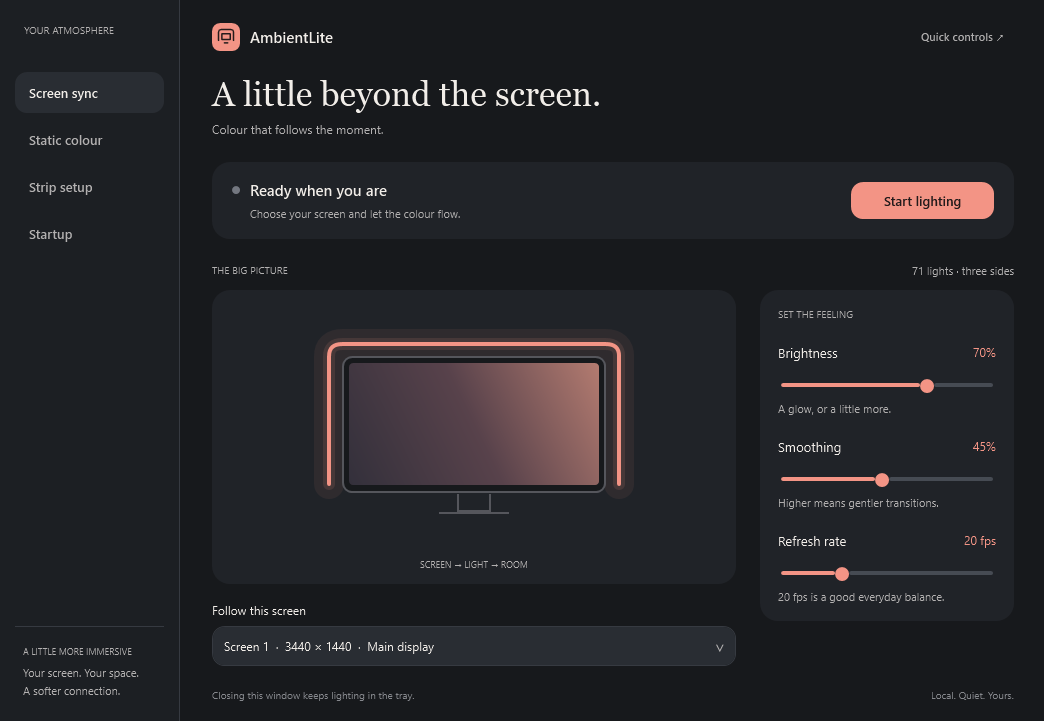
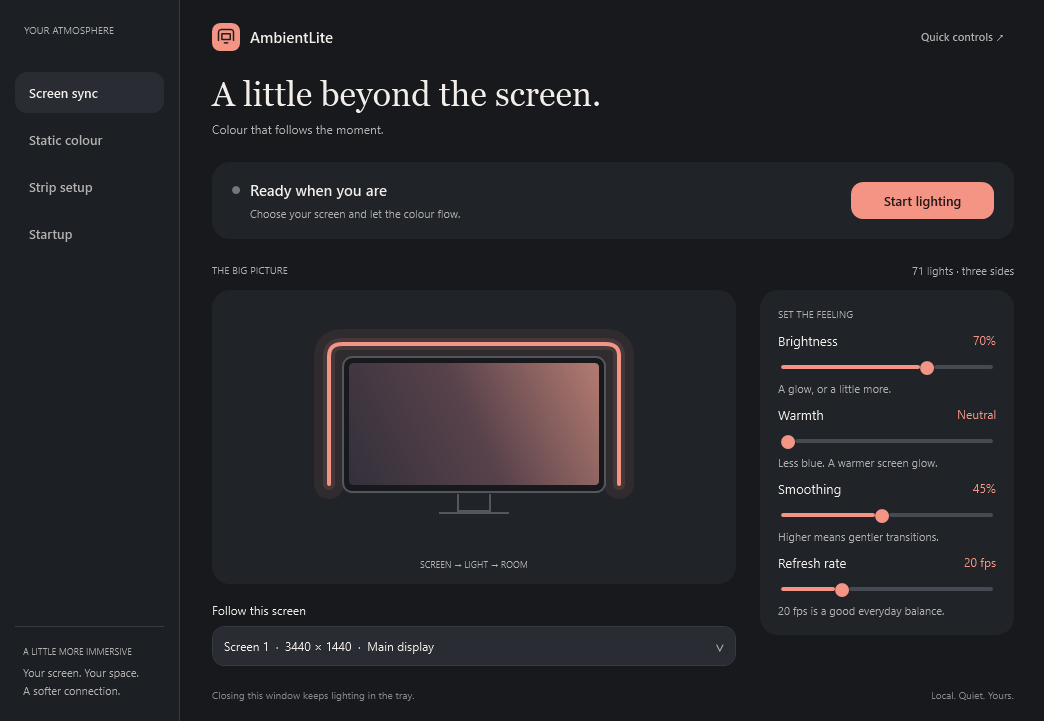
Add screen-sync warmth with compatible companion controls

Changed region(s): [[0.7356, 0.4577, 0.9502, 0.8544]]

diff --git a/AmbientLite.xaml b/AmbientLite.xaml
@@ -245,15 +245,18 @@
     <StackPanel Grid.Column="1">
      <Border Background="#202328" CornerRadius="18" Padding="18,17">
       <StackPanel>
-       <TextBlock Text="SET THE FEELING" FontSize="10" Foreground="#B2B0B0" Margin="0,0,0,24"/>
+       <TextBlock Text="SET THE FEELING" FontSize="10" Foreground="#B2B0B0" Margin="0,0,0,12"/>
        <Grid><TextBlock Text="Brightness" FontSize="13"/><TextBlock x:Name="BrightnessValue" Text="70%" HorizontalAlignment="Right" Foreground="#F39485" FontSize="12"/></Grid>
-       <Slider x:Name="Brightness" Minimum="0" Maximum="100" Value="70" Margin="0,12,0,4"/>
-       <TextBlock Text="A glow, or a little more." FontSize="11" Foreground="#B2B0B0" Margin="0,0,0,22"/>
+       <Slider x:Name="Brightness" Minimum="0" Maximum="100" Value="70" Margin="0,6,0,2"/>
+       <TextBlock Text="A glow, or a little more." FontSize="11" Foreground="#B2B0B0" Margin="0,0,0,10"/>
+       <Grid><TextBlock Text="Warmth" FontSize="13"/><TextBlock x:Name="WarmthValue" Text="Neutral" HorizontalAlignment="Right" Foreground="#F39485" FontSize="12"/></Grid>
+       <Slider x:Name="Warmth" Minimum="0" Maximum="100" Value="0" Margin="0,6,0,2" AutomationProperties.Name="Screen colour warmth"/>
+       <TextBlock Text="Less blue. A warmer screen glow." FontSize="11" Foreground="#B2B0B0" Margin="0,0,0,10"/>
        <Grid><TextBlock Text="Smoothing" FontSize="13"/><TextBlock x:Name="SmoothingValue" Text="45%" HorizontalAlignment="Right" Foreground="#F39485" FontSize="12"/></Grid>
-       <Slider x:Name="Smoothing" Minimum="0" Maximum="95" Value="45" Margin="0,12,0,4"/>
-       <TextBlock Text="Higher means gentler transitions." FontSize="11" Foreground="#B2B0B0" Margin="0,0,0,22"/>
+       <Slider x:Name="Smoothing" Minimum="0" Maximum="95" Value="45" Margin="0,6,0,2"/>
+       <TextBlock Text="Higher means gentler transitions." FontSize="11" Foreground="#B2B0B0" Margin="0,0,0,10"/>
        <Grid><TextBlock Text="Refresh rate" FontSize="13"/><TextBlock x:Name="RateValue" Text="20 fps" HorizontalAlignment="Right" Foreground="#F39485" FontSize="12"/></Grid>
-       <Slider x:Name="Rate" Minimum="5" Maximum="60" Value="20" Margin="0,12,0,4"/>
+       <Slider x:Name="Rate" Minimum="5" Maximum="60" Value="20" Margin="0,6,0,2"/>
        <TextBlock Text="20 fps is a good everyday balance." FontSize="11" Foreground="#B2B0B0" TextWrapping="Wrap"/>
       </StackPanel>
      </Border>

diff --git a/TrayFlyout.xaml b/TrayFlyout.xaml
@@ -33,6 +33,8 @@
     <TextBlock x:Name="QuickColourName" Text="Custom colour" FontSize="11" Foreground="#B2B0B0" Margin="0,7,0,0"/>
    </StackPanel>
    <StackPanel x:Name="QuickScreenSettings" Margin="0,17,0,0">
+    <Grid><TextBlock Text="Warmth" FontSize="12"/><TextBlock x:Name="QuickWarmthText" FontSize="12" Foreground="#F39485" HorizontalAlignment="Right"/></Grid>
+    <Slider x:Name="QuickWarmth" Minimum="0" Maximum="100" Margin="0,9,0,14"/>
     <Grid><TextBlock Text="Smoothing" FontSize="12"/><TextBlock x:Name="QuickSmoothingText" FontSize="12" Foreground="#F39485" HorizontalAlignment="Right"/></Grid>
     <Slider x:Name="QuickSmoothing" Minimum="0" Maximum="95" Margin="0,9,0,14"/>
     <Grid><TextBlock Text="Refresh rate" FontSize="12"/><TextBlock x:Name="QuickRateText" FontSize="12" Foreground="#F39485" HorizontalAlignment="Right"/></Grid>

diff --git a/LightWindow.cs b/LightWindow.cs
@@ -14,10 +14,10 @@ using Forms=System.Windows.Forms;
 using Drawing=System.Drawing;
 
 sealed partial class LightWindow {
- Window window; ComboBox monitor; Slider brightness,smoothing,rate; TextBox topCount,sideCount; CheckBox reverse,compatibilityCapture;
+ Window window; ComboBox monitor; Slider brightness,smoothing,rate,warmth; TextBox topCount,sideCount; CheckBox reverse,compatibilityCapture;
  Button sync,test; Forms.NotifyIcon tray; CancellationTokenSource cancellation; Task worker;
  Forms.Screen[] screens; bool exiting,testing,loading; string page="Lighting"; int frameCount;
- volatile int liveBrightness=70,liveSmoothing=45,liveRate=20,liveMode=0,liveColour=0xFFC885;
+ volatile int liveBrightness=70,liveWarmth=0,liveSmoothing=45,liveRate=20,liveMode=0,liveColour=0xFFC885;
  ColourWheel wheel; string colourName="Candle"; SemaphoreSlim changes=new SemaphoreSlim(0,1);
  string[] colourNames={"Candle","Soft white","Coral","Rose","Lavender","Blue hour","Sea glass","Daylight"};
  string[] colourHex={"#FFC885","#FFF1DA","#FF9A88","#FFA3C7","#C7B0FF","#8CBFFF","#85FFD8","#E5F2FF"};
@@ -30,12 +30,12 @@ sealed partial class LightWindow {
  public LightWindow(){
   using(var stream=Assembly.GetExecutingAssembly().GetManifestResourceStream("Ambient.UI"))window=(Window)XamlReader.Load(stream);
   using(var icon=Assembly.GetExecutingAssembly().GetManifestResourceStream("Ambient.Icon")){var bitmap=new System.Windows.Media.Imaging.BitmapImage();bitmap.BeginInit();bitmap.CacheOption=System.Windows.Media.Imaging.BitmapCacheOption.OnLoad;bitmap.StreamSource=icon;bitmap.EndInit();window.Icon=bitmap;}
-  monitor=Get<ComboBox>("Monitor");brightness=Get<Slider>("Brightness");smoothing=Get<Slider>("Smoothing");rate=Get<Slider>("Rate");topCount=Get<TextBox>("TopCount");sideCount=Get<TextBox>("SideCount");reverse=Get<CheckBox>("Reverse");sync=Get<Button>("SyncButton");test=Get<Button>("TestButton");
+  monitor=Get<ComboBox>("Monitor");brightness=Get<Slider>("Brightness");smoothing=Get<Slider>("Smoothing");rate=Get<Slider>("Rate");warmth=Get<Slider>("Warmth");topCount=Get<TextBox>("TopCount");sideCount=Get<TextBox>("SideCount");reverse=Get<CheckBox>("Reverse");sync=Get<Button>("SyncButton");test=Get<Button>("TestButton");
   screens=Forms.Screen.AllScreens;for(int i=0;i<screens.Length;i++){var s=screens[i];monitor.Items.Add("Screen "+(i+1)+"  ·  "+s.Bounds.Width+" × "+s.Bounds.Height+(s.Primary?"  ·  Main display":""));}monitor.SelectedIndex=Math.Max(0,Array.FindIndex(screens,s=>s.DeviceName.EndsWith("DISPLAY2")));
   compatibilityCapture=Get<CheckBox>("CompatibilityCapture");
   loading=true;if(!renderingDocumentation)Load();SetupColours();loading=false;UpdateValues();
   compatibilityCapture.Checked+=(s,e)=>SaveIfValid();compatibilityCapture.Unchecked+=(s,e)=>SaveIfValid();
-  brightness.ValueChanged+=(s,e)=>UpdateValues();smoothing.ValueChanged+=(s,e)=>UpdateValues();rate.ValueChanged+=(s,e)=>UpdateValues();topCount.TextChanged+=(s,e)=>UpdateLayout();sideCount.TextChanged+=(s,e)=>UpdateLayout();reverse.Checked+=(s,e)=>SaveIfValid();reverse.Unchecked+=(s,e)=>SaveIfValid();monitor.SelectionChanged+=(s,e)=>SaveIfValid();
+  warmth.ValueChanged+=(s,e)=>UpdateValues();brightness.ValueChanged+=(s,e)=>UpdateValues();smoothing.ValueChanged+=(s,e)=>UpdateValues();rate.ValueChanged+=(s,e)=>UpdateValues();topCount.TextChanged+=(s,e)=>UpdateLayout();sideCount.TextChanged+=(s,e)=>UpdateLayout();reverse.Checked+=(s,e)=>SaveIfValid();reverse.Unchecked+=(s,e)=>SaveIfValid();monitor.SelectionChanged+=(s,e)=>SaveIfValid();
   Get<Button>("LightingNav").Click+=(s,e)=>Navigate("Lighting");Get<Button>("ColourNav").Click+=(s,e)=>Navigate("Colour");Get<Button>("SetupNav").Click+=(s,e)=>Navigate("Setup");Get<Button>("StartupNav").Click+=(s,e)=>Navigate("Startup");SetupStartup();SetupShutdown();
   sync.Click+=async(s,e)=>{if(IsRunning)await Stop();else await Start(false);};test.Click+=async(s,e)=>await Start(true);
   tray=new Forms.NotifyIcon{Text="AmbientLite · Ready",Visible=!renderingDocumentation&&!Companion};SetIcon(false);SetupQuickControls();
@@ -52,25 +52,27 @@ sealed partial class LightWindow {
  void ActiveState(){State(true,true,liveMode==1?"A steady glow.":"Lighting your space",liveMode==1?"Your chosen colour, across the whole strip.":"Following your screen. Adjust the feeling as you go.");}
  void SetupColours(){wheel=new ColourWheel{Width=270,Height=270};Get<Grid>("WheelHost").Children.Add(wheel);wheel.Changed+=color=>ChooseColour(color,"Custom colour");var panel=Get<System.Windows.Controls.Primitives.UniformGrid>("Swatches");for(int i=0;i<colourHex.Length;i++){int index=i;var color=(Color)ColorConverter.ConvertFromString(colourHex[i]);var row=new StackPanel{Orientation=Orientation.Horizontal};row.Children.Add(new System.Windows.Shapes.Ellipse{Width=17,Height=17,Fill=new SolidColorBrush(color),Margin=new Thickness(0,0,8,0),VerticalAlignment=VerticalAlignment.Center});row.Children.Add(new TextBlock{Text=colourNames[i],FontSize=11,VerticalAlignment=VerticalAlignment.Center});var button=new Button{Content=row,Margin=new Thickness(3),Padding=new Thickness(9,10,9,10),HorizontalContentAlignment=HorizontalAlignment.Left,ToolTip=colourNames[i]+" · "+colourHex[i]};System.Windows.Automation.AutomationProperties.SetName(button,colourNames[i]);button.Click+=(s,e)=>ChooseColour((Color)ColorConverter.ConvertFromString(colourHex[index]),colourNames[index]);swatches.Add(button);panel.Children.Add(button);}ChooseColour(Color.FromRgb((byte)(liveColour>>16),(byte)(liveColour>>8),(byte)liveColour),null);}
  void ChooseColour(Color color,string name){liveColour=(color.R<<16)|(color.G<<8)|color.B;string hex="#"+liveColour.ToString("X6");int known=Array.IndexOf(colourHex,hex);colourName=known>=0?colourNames[known]:name??"Custom colour";Text("ChosenName",colourName);Text("ChosenHex",hex);Get<System.Windows.Shapes.Ellipse>("ChosenDot").Fill=new SolidColorBrush(color);if(wheel!=null)wheel.Select(color);for(int i=0;i<swatches.Count;i++){swatches[i].BorderBrush=Brush(i==known?"#F39485":"#363A41");swatches[i].Background=Brush(i==known?"#393035":"#292D33");}Wake();SaveIfValid();UpdateQuick();}
- void UpdateValues(){liveBrightness=(int)Math.Round(brightness.Value);liveSmoothing=(int)Math.Round(smoothing.Value);liveRate=(int)Math.Round(rate.Value);Text("BrightnessValue",liveBrightness+"%");Text("SmoothingValue",liveSmoothing+"%");Text("RateValue",liveRate+" fps");Wake();SaveIfValid();UpdateQuick();}
+ void UpdateValues(){liveWarmth=(int)Math.Round(warmth.Value);Text("WarmthValue",liveWarmth==0?"Neutral":liveWarmth+"%");liveBrightness=(int)Math.Round(brightness.Value);liveSmoothing=(int)Math.Round(smoothing.Value);liveRate=(int)Math.Round(rate.Value);Text("BrightnessValue",liveBrightness+"%");Text("SmoothingValue",liveSmoothing+"%");Text("RateValue",liveRate+" fps");Wake();SaveIfValid();UpdateQuick();}
  bool Layout(out int top,out int side){top=side=0;return int.TryParse(topCount.Text,out top)&&int.TryParse(sideCount.Text,out side)&&top>0&&side>0&&top<=254&&side<=126&&top+2*side<=254;}
  void UpdateLayout(){int t,s;bool valid=Layout(out t,out s);if(valid)configuredLights=t+2*s;Text("LayoutSummary",valid?(t+2*s)+" lights · three sides":"Check strip setup");Text("SetupHelp",valid?"Pause lighting before changing the strip layout.":"Use positive whole numbers, with at most 254 lights in total.");if(!IsRunning)sync.IsEnabled=test.IsEnabled=valid;SaveIfValid();}
- void SaveIfValid(){if(renderingDocumentation||loading||monitor.SelectedIndex<0)return;int t,s;if(!Layout(out t,out s))return;try{AppEnvironment.Save(new[]{screens[monitor.SelectedIndex].DeviceName,liveRate.ToString(),liveBrightness.ToString(),liveSmoothing.ToString(),t.ToString(),s.ToString(),(reverse.IsChecked==true).ToString(),liveMode.ToString(),"#"+liveColour.ToString("X6"),startInTray.ToString(),startLighting.ToString(),(compatibilityCapture.IsChecked==true).ToString(),turnOffOnExit.ToString()});}catch(Exception ex){Text("RunStats","Settings could not be saved");Debug.WriteLine(ex.Message);}}
- void Load(){try{var a=File.ReadAllLines(settings);int index=Array.FindIndex(screens,s=>s.DeviceName==a[0]);if(index>=0)monitor.SelectedIndex=index;int v;if(int.TryParse(a[1],out v))rate.Value=Math.Max(5,Math.Min(60,v));if(int.TryParse(a[2],out v))brightness.Value=Math.Max(0,Math.Min(100,v));if(int.TryParse(a[3],out v))smoothing.Value=Math.Max(0,Math.Min(95,v));topCount.Text=a[4];sideCount.Text=a[5];reverse.IsChecked=bool.Parse(a[6]);if(a.Length>7)liveMode=a[7]=="1"?1:0;if(a.Length>8){var selected=(Color)ColorConverter.ConvertFromString(a[8]);liveColour=(selected.R<<16)|(selected.G<<8)|selected.B;}bool flag;if(a.Length>9&&bool.TryParse(a[9],out flag))startInTray=flag;if(a.Length>10&&bool.TryParse(a[10],out flag))startLighting=flag;if(a.Length>11&&bool.TryParse(a[11],out flag))compatibilityCapture.IsChecked=flag;if(a.Length>12&&bool.TryParse(a[12],out flag))turnOffOnExit=flag;}catch{}}
+ void SaveIfValid(){if(renderingDocumentation||loading||monitor.SelectedIndex<0)return;int t,s;if(!Layout(out t,out s))return;try{AppEnvironment.Save(new[]{screens[monitor.SelectedIndex].DeviceName,liveRate.ToString(),liveBrightness.ToString(),liveSmoothing.ToString(),t.ToString(),s.ToString(),(reverse.IsChecked==true).ToString(),liveMode.ToString(),"#"+liveColour.ToString("X6"),startInTray.ToString(),startLighting.ToString(),(compatibilityCapture.IsChecked==true).ToString(),turnOffOnExit.ToString(),liveWarmth.ToString()});}catch(Exception ex){Text("RunStats","Settings could not be saved");Debug.WriteLine(ex.Message);}}
+ void Load(){try{var a=File.ReadAllLines(settings);int index=Array.FindIndex(screens,s=>s.DeviceName==a[0]);if(index>=0)monitor.SelectedIndex=index;int v;if(int.TryParse(a[1],out v))rate.Value=Math.Max(5,Math.Min(60,v));if(int.TryParse(a[2],out v))brightness.Value=Math.Max(0,Math.Min(100,v));if(int.TryParse(a[3],out v))smoothing.Value=Math.Max(0,Math.Min(95,v));topCount.Text=a[4];sideCount.Text=a[5];reverse.IsChecked=bool.Parse(a[6]);if(a.Length>7)liveMode=a[7]=="1"?1:0;if(a.Length>8){var selected=(Color)ColorConverter.ConvertFromString(a[8]);liveColour=(selected.R<<16)|(selected.G<<8)|selected.B;}bool flag;if(a.Length>9&&bool.TryParse(a[9],out flag))startInTray=flag;if(a.Length>10&&bool.TryParse(a[10],out flag))startLighting=flag;if(a.Length>11&&bool.TryParse(a[11],out flag))compatibilityCapture.IsChecked=flag;if(a.Length>12&&bool.TryParse(a[12],out flag))turnOffOnExit=flag;if(a.Length>13&&int.TryParse(a[13],out v))warmth.Value=Math.Max(0,Math.Min(100,v));}catch{}}
  void State(bool running,bool connected,string title,string detail){sync.Content=running?"Pause lighting":"Start lighting";Get<System.Windows.Shapes.Ellipse>("StateDot").Fill=Brush(connected?"#F39485":"#737780");Text("StateTitle",title);Text("StateDetail",detail);monitor.IsEnabled=topCount.IsEnabled=sideCount.IsEnabled=reverse.IsEnabled=compatibilityCapture.IsEnabled=!running;test.IsEnabled=!running;tray.Text=connected?"AmbientLite · Lighting active":"AmbientLite · Paused";SetIcon(connected);UpdateQuick();}
  void SetIcon(bool active){using(var bmp=new Drawing.Bitmap(32,32))using(var g=Drawing.Graphics.FromImage(bmp)){g.SmoothingMode=Drawing.Drawing2D.SmoothingMode.AntiAlias;g.Clear(Drawing.Color.Transparent);using(var p=new Drawing.Pen(active?Drawing.Color.FromArgb(243,148,133):Drawing.Color.FromArgb(178,176,176),3)){g.DrawLines(p,new[]{new Drawing.Point(3,24),new Drawing.Point(3,6),new Drawing.Point(29,6),new Drawing.Point(29,24)});g.DrawRectangle(p,8,11,16,12);g.DrawLine(p,12,28,20,28);}IntPtr h=bmp.GetHicon();try{var old=tray.Icon;using(var temp=Drawing.Icon.FromHandle(h))tray.Icon=(Drawing.Icon)temp.Clone();if(old!=null)old.Dispose();}finally{DestroyIcon(h);}}}
  [System.Runtime.InteropServices.DllImport("user32.dll")]static extern bool DestroyIcon(IntPtr icon);
- async Task Start(bool solid){if(exiting||cancellation!=null)return;if(Process.GetProcessesByName("SyncLight").Length>0){State(false,false,"SyncLight is still open","Exit SyncLight from its tray icon, then start lighting here.");return;}int top,side;if(!Layout(out top,out side)){Navigate("Setup");return;}var bounds=screens[monitor.SelectedIndex].Bounds;bool rev=reverse.IsChecked==true;testing=solid;var tokenSource=new CancellationTokenSource();cancellation=tokenSource;var token=tokenSource.Token;State(true,false,"Connecting to your lights…","Getting everything ready.");sync.IsEnabled=false;UpdateQuick();
+ async Task Start(bool solid){if(exiting||cancellation!=null)return;if(Process.GetProcessesByName("SyncLight").Length>0){State(false,false,"SyncLight is still open","Exit SyncLight from its tray icon, then start lighting here.");return;}int top,side;if(!Layout(out top,out side)){Navigate("Setup");return;}var bounds=screens[monitor.SelectedIndex].Bounds;string capturedMonitor=screens[monitor.SelectedIndex].DeviceName;bool rev=reverse.IsChecked==true;testing=solid;var tokenSource=new CancellationTokenSource();cancellation=tokenSource;var token=tokenSource.Token;State(true,false,"Connecting to your lights…","Getting everything ready.");sync.IsEnabled=false;UpdateQuick();
   bool useCompatibility=compatibilityCapture.IsChecked==true;
-  worker=Task.Run(async()=>{var devices=Hid.Find();if(devices.Length!=1)throw new IOException(devices.Length==0?"Plug in your light strip and try again.":"More than one light controller is connected.");using(var hid=new Hid(devices[0]))using(var frames=new LightingFrames(()=>new Capture(useCompatibility),bounds,top,side,rev)){
+   worker=Task.Run(async()=>{Capture source=null;var devices=Hid.Find();if(devices.Length!=1)throw new IOException(devices.Length==0?"Plug in your light strip and try again.":"More than one light controller is connected.");using(var hid=new Hid(devices[0]))using(var frames=new LightingFrames(()=>source=new Capture(useCompatibility),bounds,top,side,rev)){
    await window.Dispatcher.InvokeAsync(()=>{if(solid)State(true,true,"A little blue for you.","Checking every light on the strip.");else ActiveState();sync.IsEnabled=true;UpdateQuick();},DispatcherPriority.Normal,token);
-   byte[] previous=null;int seq=1;var sent=Stopwatch.StartNew();
+    byte[] previous=null;int seq=1;var sent=Stopwatch.StartNew();var trace=Stopwatch.StartNew();
    while(!token.IsCancellationRequested){var tick=Stopwatch.StartNew();int mode=liveMode;
-    var colors=solid?Enumerable.Repeat(Drawing.Color.FromArgb(0,0,40),top+side*2).ToArray():frames.Read(mode,liveBrightness,liveSmoothing,liveColour);
+    var colors=solid?Enumerable.Repeat(Drawing.Color.FromArgb(0,0,40),top+side*2).ToArray():frames.Read(mode,liveBrightness,liveSmoothing,liveColour,liveWarmth);
     if(colors==null){await Task.Delay(Math.Max(1,1000/liveRate),token);continue;}
     if(!solid&&mode!=liveMode)continue; // Never send a frame computed for a mode that was replaced.
     var packet=Protocol.Frame(colors,seq);bool changed=previous==null;for(int i=6;!changed&&i<packet.Length-1;i++)if(packet[i]!=previous[i])changed=true;
-    if(changed||sent.ElapsedMilliseconds>=1000){await hid.Send(packet,token);previous=packet;sent.Restart();seq=seq%254+1;}
+     bool transmitted=changed||sent.ElapsedMilliseconds>=1000;
+     if(transmitted){await hid.Send(packet,token);previous=packet;sent.Restart();seq=seq%254+1;}
+     if(ColourTrace.Enabled&&trace.ElapsedMilliseconds>=1000){ColourTrace.Write(capturedMonitor,mode,liveBrightness,liveSmoothing,source==null?0:source.Readbacks,source==null?0:source.BusySkips,frames.LastSampleColours,packet,transmitted);trace.Restart();}
     frames.Commit(colors);if(mode==0)Interlocked.Increment(ref frameCount);if(solid)break;
     if(mode!=liveMode)continue;
     if(mode==1)await changes.WaitAsync(token);else await Task.Delay(Math.Max(1,1000/liveRate-(int)tick.ElapsedMilliseconds),token);

diff --git a/LocalControl.cs b/LocalControl.cs
@@ -39,12 +39,13 @@ sealed partial class LightWindow {
  Task remoteStart;
  internal bool Companion {get{return Environment.GetCommandLineArgs().Contains("--companion");}}
  internal LocalControl StartLocalControl(){return new LocalControl(r=>window.Dispatcher.InvokeAsync(()=>Control(r)).Task.Unwrap());}
- Options ControlOptions(){return new Options{Mode=liveMode==1?"static":"screen",Colour="#"+liveColour.ToString("X6"),Monitor=screens[monitor.SelectedIndex].DeviceName,Brightness=liveBrightness,Smoothing=liveSmoothing,Rate=liveRate,Top=Int32.Parse(topCount.Text),Side=Int32.Parse(sideCount.Text),Reverse=reverse.IsChecked==true,Compatibility=compatibilityCapture.IsChecked==true,OffOnExit=turnOffOnExit,StartInTray=startInTray,StartLighting=startLighting,StartWithWindows=StartupEnabled()};}
+ Options ControlOptions(){return new Options{Mode=liveMode==1?"static":"screen",Colour="#"+liveColour.ToString("X6"),Monitor=screens[monitor.SelectedIndex].DeviceName,Brightness=liveBrightness,Warmth=liveWarmth,Smoothing=liveSmoothing,Rate=liveRate,Top=Int32.Parse(topCount.Text),Side=Int32.Parse(sideCount.Text),Reverse=reverse.IsChecked==true,Compatibility=compatibilityCapture.IsChecked==true,OffOnExit=turnOffOnExit,StartInTray=startInTray,StartLighting=startLighting,StartWithWindows=StartupEnabled()};}
  static bool StartupEnabled(){using(var key=Microsoft.Win32.Registry.CurrentUser.OpenSubKey(StartupRegistration.Key))return key!=null&&key.GetValue("AmbientLite")!=null;}
  static string Key(Options options){using(var hash=SHA256.Create())return BitConverter.ToString(hash.ComputeHash(Wire.Encode(options))).Replace("-","");}
  Reply Snapshot(){var options=ControlOptions();refreshingStartup=true;try{startWithWindows.IsChecked=options.StartWithWindows;}finally{refreshingStartup=false;}return new Reply{Ok=true,AppVersion=AppEnvironment.Version,ProcessId=System.Diagnostics.Process.GetCurrentProcess().Id,ScreenFrames=Interlocked.CompareExchange(ref frameCount,0,0),Running=IsRunning,Transitioning=IsRunning&&!sync.IsEnabled,Companion=Companion,Title=Get<TextBlock>("StateTitle").Text,Detail=Get<TextBlock>("StateDetail").Text,Settings=options,SettingsKey=Key(options),Displays=screens.Select((s,i)=>new Display{Id=s.DeviceName,Name="Screen "+(i+1)+" · "+s.Bounds.Width+" × "+s.Bounds.Height+(s.Primary?" · Main display":"")}).ToArray()};}
+ internal static int ResolveWarmth(Options o,int current){return o.Warmth??current;}
  internal static void ValidateControlOptions(Options o){
-  if(o==null||(o.Mode!="screen"&&o.Mode!="static")||o.Colour==null||!System.Text.RegularExpressions.Regex.IsMatch(o.Colour,"^#[0-9A-Fa-f]{6}$")||o.Monitor==null||o.Monitor.Length>128||o.Brightness<0||o.Brightness>100||o.Smoothing<0||o.Smoothing>95||o.Rate<5||o.Rate>60||o.Top<1||o.Side<1||o.Top+2L*o.Side>254)throw new ArgumentException("Check colour, screen, brightness, smoothing, refresh rate and strip layout.");
+  if(o==null||(o.Mode!="screen"&&o.Mode!="static")||o.Colour==null||!System.Text.RegularExpressions.Regex.IsMatch(o.Colour,"^#[0-9A-Fa-f]{6}$")||o.Monitor==null||o.Monitor.Length>128||o.Brightness<0||o.Brightness>100||(o.Warmth.HasValue&&(o.Warmth.Value<0||o.Warmth.Value>100))||o.Smoothing<0||o.Smoothing>95||o.Rate<5||o.Rate>60||o.Top<1||o.Side<1||o.Top+2L*o.Side>254)throw new ArgumentException("Check colour, screen, brightness, smoothing, refresh rate and strip layout.");
  }
  async Task<Reply> Control(Request r){
   if(exiting)throw new IOException("AmbientLite is closing.");
@@ -55,7 +56,7 @@ sealed partial class LightWindow {
    var current=ControlOptions();if(r.ExpectedKey!=Key(current))throw new IOException("AmbientLite settings changed elsewhere. Refresh before applying.");
    if(IsRunning&&(o.Monitor!=current.Monitor||o.Top!=current.Top||o.Side!=current.Side||o.Reverse!=current.Reverse||o.Compatibility!=current.Compatibility))throw new IOException("Pause ambient lighting before changing the screen or strip setup.");
    if(o.StartWithWindows!=current.StartWithWindows)StartupRegistration.SetEnabled(o.StartWithWindows);
-   loading=true;try{monitor.SelectedIndex=index;topCount.Text=o.Top.ToString();sideCount.Text=o.Side.ToString();reverse.IsChecked=o.Reverse;compatibilityCapture.IsChecked=o.Compatibility;brightness.Value=o.Brightness;smoothing.Value=o.Smoothing;rate.Value=o.Rate;turnOffOnExit=o.OffOnExit;startInTray=o.StartInTray;startLighting=o.StartLighting;offAtExit.IsChecked=o.OffOnExit;trayAtStartup.IsChecked=o.StartInTray;lightingAtStartup.IsChecked=o.StartLighting;ChooseColour((System.Windows.Media.Color)System.Windows.Media.ColorConverter.ConvertFromString(o.Colour),null);Navigate(o.Mode=="static"?"Colour":"Lighting");}finally{loading=false;}
+   loading=true;try{monitor.SelectedIndex=index;topCount.Text=o.Top.ToString();sideCount.Text=o.Side.ToString();reverse.IsChecked=o.Reverse;compatibilityCapture.IsChecked=o.Compatibility;brightness.Value=o.Brightness;warmth.Value=ResolveWarmth(o,current.Warmth??0);smoothing.Value=o.Smoothing;rate.Value=o.Rate;turnOffOnExit=o.OffOnExit;startInTray=o.StartInTray;startLighting=o.StartLighting;offAtExit.IsChecked=o.OffOnExit;trayAtStartup.IsChecked=o.StartInTray;lightingAtStartup.IsChecked=o.StartLighting;ChooseColour((System.Windows.Media.Color)System.Windows.Media.ColorConverter.ConvertFromString(o.Colour),null);Navigate(o.Mode=="static"?"Colour":"Lighting");}finally{loading=false;}
    SaveIfValid();return Snapshot();
   }
   if(r.Command=="start") {if(!IsRunning){remoteStart=Start(false);await Task.WhenAny(remoteStart,Task.Delay(250));if(remoteStart.IsCompleted)await remoteStart;}return Snapshot();}

diff --git a/QuickControls.cs b/QuickControls.cs
@@ -43,7 +43,7 @@ sealed partial class LightWindow {
    Quick<Button>("QuickToggle").Click+=async(s,e)=>{Quick<Button>("QuickToggle").IsEnabled=false;if(IsRunning)await Stop();else await Start(false);UpdateQuick();};
    Quick<RadioButton>("QuickScreen").Checked+=(s,e)=>{if(!refreshingQuick)Navigate("Lighting");};
    Quick<RadioButton>("QuickStatic").Checked+=(s,e)=>{if(!refreshingQuick)Navigate("Colour");};
-   BindQuick("QuickBrightness",brightness);BindQuick("QuickSmoothing",smoothing);BindQuick("QuickRate",rate);
+   BindQuick("QuickBrightness",brightness);BindQuick("QuickSmoothing",smoothing);BindQuick("QuickRate",rate);BindQuick("QuickWarmth",warmth);
    for(int i=0;i<colourNames.Length;i++){int index=i;var c=(Color)ColorConverter.ConvertFromString(colourHex[i]);var stack=new StackPanel{HorizontalAlignment=HorizontalAlignment.Center};stack.Children.Add(new System.Windows.Shapes.Ellipse{Width=15,Height=15,Fill=new SolidColorBrush(c),HorizontalAlignment=HorizontalAlignment.Center,Margin=new Thickness(0,0,0,6)});stack.Children.Add(new TextBlock{Text=colourNames[i],FontSize=9,HorizontalAlignment=HorizontalAlignment.Center});var b=new Button{Content=stack,Margin=new Thickness(3),Padding=new Thickness(3,8,3,8),HorizontalContentAlignment=HorizontalAlignment.Center,ToolTip=colourNames[i]+" · "+colourHex[i]};System.Windows.Automation.AutomationProperties.SetName(b,colourNames[i]);b.Click+=(s,e)=>ChooseColour((Color)ColorConverter.ConvertFromString(colourHex[index]),colourNames[index]);quickSwatches.Add(b);Quick<System.Windows.Controls.Primitives.UniformGrid>("QuickSwatches").Children.Add(b);}
   }
   quickAnchor=Forms.Cursor.Position;UpdateQuick();flyout.Opacity=0;flyout.Show();flyout.UpdateLayout();PlaceQuick();flyout.Opacity=1;flyout.Activate();
@@ -56,7 +56,7 @@ sealed partial class LightWindow {
   Quick<System.Windows.Shapes.Ellipse>("QuickDot").Fill=Get<System.Windows.Shapes.Ellipse>("StateDot").Fill;
   Quick<Button>("QuickToggle").Content=sync.Content;Quick<Button>("QuickToggle").IsEnabled=sync.IsEnabled;
   Quick<RadioButton>("QuickScreen").IsChecked=liveMode==0;Quick<RadioButton>("QuickStatic").IsChecked=liveMode==1;
-  Quick<TextBlock>("QuickBrightnessText").Text=liveBrightness+"%";Quick<TextBlock>("QuickSmoothingText").Text=liveSmoothing+"%";Quick<TextBlock>("QuickRateText").Text=liveRate+" fps";
+  Quick<TextBlock>("QuickBrightnessText").Text=liveBrightness+"%";Quick<TextBlock>("QuickSmoothingText").Text=liveSmoothing+"%";Quick<TextBlock>("QuickRateText").Text=liveRate+" fps";Quick<TextBlock>("QuickWarmthText").Text=liveWarmth==0?"Neutral":liveWarmth+"%";
   Quick<StackPanel>("QuickColours").Visibility=liveMode==1?Visibility.Visible:Visibility.Collapsed;Quick<StackPanel>("QuickScreenSettings").Visibility=liveMode==0?Visibility.Visible:Visibility.Collapsed;
   Quick<TextBlock>("QuickColourName").Text=colourName+" · #"+liveColour.ToString("X6");Quick<System.Windows.Shapes.Ellipse>("QuickColourDot").Fill=Brush("#"+liveColour.ToString("X6"));
   for(int i=0;i<quickSwatches.Count;i++){bool selected=colourHex[i]=="#"+liveColour.ToString("X6");quickSwatches[i].BorderBrush=Brush(selected?"#F39485":"#363A41");quickSwatches[i].Background=Brush(selected?"#393035":"#292D33");}

diff --git a/LightingFrames.cs b/LightingFrames.cs
@@ -14,8 +14,9 @@ sealed class LightingFrames : IDisposable {
  readonly Func<ILightingCapture> create;readonly Rectangle bounds;readonly int top,side;readonly bool reverse;readonly Color[] last;
  ILightingCapture capture;
  public int LastSampleNonBlack{get;private set;}
+ public Color[] LastSampleColours{get;private set;}
  public LightingFrames(Func<ILightingCapture> create,Rectangle bounds,int top,int side,bool reverse){this.create=create;this.bounds=bounds;this.top=top;this.side=side;this.reverse=reverse;last=new Color[top+2*side];}
- public Color[] Read(int mode,int brightness,int smoothing,int rgb){
+ public Color[] Read(int mode,int brightness,int smoothing,int rgb,int warmth=0){
   Color[] colors;double power=brightness/100.0;
   if(mode==1){
    colors=new Color[last.Length];
@@ -25,13 +26,21 @@ sealed class LightingFrames : IDisposable {
   }else{
    if(capture==null)capture=create();
    if(!capture.Grab(bounds))return null; // Keep the actual LED output until an image is ready.
-   colors=capture.Edge(side,top,reverse);double blend=1-smoothing/100.0;int nonBlack=0;
-   for(int i=0;i<colors.Length;i++){var c=colors[i];if((c.R|c.G|c.B)!=0)nonBlack++;colors[i]=Color.FromArgb((int)(last[i].R*(1-blend)+c.R*power*blend),(int)(last[i].G*(1-blend)+c.G*power*blend),(int)(last[i].B*(1-blend)+c.B*power*blend));}LastSampleNonBlack=nonBlack;
+   colors=capture.Edge(side,top,reverse);if(ColourTrace.Enabled)LastSampleColours=(Color[])colors.Clone();double blend=1-smoothing/100.0;int nonBlack=0;
+   for(int i=0;i<colors.Length;i++){var c=ScreenColour.Warm(colors[i],warmth);if((c.R|c.G|c.B)!=0)nonBlack++;colors[i]=Color.FromArgb((int)(last[i].R*(1-blend)+c.R*power*blend),(int)(last[i].G*(1-blend)+c.G*power*blend),(int)(last[i].B*(1-blend)+c.B*power*blend));}LastSampleNonBlack=nonBlack;
   }
   return colors;
  }
  public void Commit(Color[] colors){Array.Copy(colors,last,last.Length);}
  public void Dispose(){if(capture!=null){capture.Dispose();capture=null;}}
+}
+
+static class ScreenColour {
+ public static Color Warm(Color color,int warmth){
+  warmth=Math.Max(0,Math.Min(100,warmth));
+  if(warmth==0)return color;
+  return Color.FromArgb(color.R,(int)Math.Round(color.G*(1-warmth*0.002)),(int)Math.Round(color.B*(1-warmth*0.009)));
+ }
 }
 
 sealed class ReadbackWatchdog {

diff --git a/tests/ControlTests.cs b/tests/ControlTests.cs
@@ -10,6 +10,9 @@ static class AmbientControlChecks {
  static Options Valid(){return new Options{Mode="screen",Colour="#FF541F",Monitor="display",Brightness=100,Smoothing=45,Rate=20,Top=41,Side=15};}
  static Reply Call(string name,int version){using(var pipe=new NamedPipeClientStream(".",name,PipeDirection.InOut,PipeOptions.Asynchronous)){pipe.Connect(2000);Wire.Send(pipe,new Request{Version=version,Command="status"},CancellationToken.None).GetAwaiter().GetResult();return Wire.Receive<Reply>(pipe,CancellationToken.None).GetAwaiter().GetResult();}}
  static int Main(){try{
+  var legacy=Wire.Decode<Options>(System.Text.Encoding.UTF8.GetBytes("{\"Mode\":\"screen\"}"));Assert(!legacy.Warmth.HasValue&&LightWindow.ResolveWarmth(legacy,63)==63,"Older clients must preserve saved warmth.");
+  var neutral=Valid();neutral.Warmth=0;Assert(LightWindow.ResolveWarmth(neutral,63)==0,"Explicit neutral must reset warmth.");
+  neutral.Warmth=101;Reject(()=>LightWindow.ValidateControlOptions(neutral));neutral.Warmth=-1;Reject(()=>LightWindow.ValidateControlOptions(neutral));
   var o=Valid();LightWindow.ValidateControlOptions(o);o.Top=Int32.MaxValue;Reject(()=>LightWindow.ValidateControlOptions(o));o=Valid();o.Side=0;Reject(()=>LightWindow.ValidateControlOptions(o));o=Valid();o.Colour="red";Reject(()=>LightWindow.ValidateControlOptions(o));o=Valid();o.Rate=61;Reject(()=>LightWindow.ValidateControlOptions(o));
   using(var stream=new MemoryStream()){Wire.Send(stream,new Request{Command="apply",Settings=Valid()},CancellationToken.None).GetAwaiter().GetResult();stream.Position=0;var r=Wire.Receive<Request>(stream,CancellationToken.None).GetAwaiter().GetResult();Assert(r.Settings.Top==41&&r.Command=="apply"&&r.Version==1,"Framed settings roundtrip");}
   foreach(byte[] bytes in new[]{new byte[0],new byte[]{1,0,0},new byte[]{255,255,255,255},new byte[]{0,0,0,0},new byte[]{5,0,0,0,123}})Reject(()=>Wire.Receive<Request>(new MemoryStream(bytes),CancellationToken.None).GetAwaiter().GetResult());

diff --git a/ColourTrace.cs b/ColourTrace.cs
@@ -1,0 +1,20 @@
+using System;
+using System.Drawing;
+using System.Globalization;
+using System.IO;
+using System.Linq;
+
+// Explicit, bounded troubleshooting only. No pixels, network, or extra capture.
+static class ColourTrace {
+ static readonly string path=FindPath();static long remaining=1048576;
+ public static bool Enabled {get{return path!=null&&remaining>0;}}
+ static string FindPath(){var args=Environment.GetCommandLineArgs();int at=Array.IndexOf(args,"--colour-log");return at>=0&&at+1<args.Length?args[at+1]:Environment.GetEnvironmentVariable("AMBIENTLITE_COLOUR_LOG");}
+ internal static string Colours(Color[] colors){return colors==null?"none":string.Join(",",colors.Select(c=>c.R.ToString("X2")+c.G.ToString("X2")+c.B.ToString("X2")));}
+ internal static string PacketColours(byte[] packet){if(packet==null||packet.Length<12||(packet.Length-7)%5!=0)throw new ArgumentException("Invalid LED frame");int count=(packet.Length-7)/5;var colors=new Color[count];for(int i=0;i<count;i++){int p=6+i*5;colors[i]=Color.FromArgb(packet[p+1],packet[p+2],packet[p+3]);}return Colours(colors);}
+ public static void Write(string monitor,int mode,int brightness,int smoothing,int readbacks,int busySkips,Color[] sampled,byte[] packet,bool sent){
+  if(!Enabled)return;
+  try{string line=DateTime.UtcNow.ToString("O",CultureInfo.InvariantCulture)+" monitor="+monitor+" mode="+mode+" brightness="+brightness+" smoothing="+smoothing+" readbacks="+readbacks+" busy="+busySkips+" sent="+sent+" sequence="+packet[4]+" raw="+Colours(sampled)+" packet="+PacketColours(packet)+Environment.NewLine;
+   remaining-=System.Text.Encoding.UTF8.GetByteCount(line);if(remaining<0)return;File.AppendAllText(path,line);
+  }catch{remaining=0;} // Diagnostics must never interrupt the lighting worker.
+ }
+}

diff --git a/tests/LightingTests.cs b/tests/LightingTests.cs
@@ -12,6 +12,14 @@ static class LightingTests {
  }
  static void Assert(bool value,string message){if(!value)throw new Exception(message);}
  public static void Run(){
+  var sample=Color.FromArgb(65,37,28);
+  Assert(ScreenColour.Warm(sample,0)==sample,"Neutral warmth changed screen colours.");
+  Assert(ScreenColour.Warm(sample,100)==Color.FromArgb(65,30,3),"Maximum warmth did not reduce blue while retaining red.");
+  Assert(ScreenColour.Warm(Color.Black,100).ToArgb()==Color.Black.ToArgb(),"Warmth lit a black screen.");
+  using(var warmFrames=new LightingFrames(()=>new FakeCapture{Ready=true,Color=sample},new Rectangle(0,0,10,10),2,1,true)){
+   var warm=warmFrames.Read(0,100,0,0,100);Assert(warm.All(c=>c==Color.FromArgb(65,30,3)),"Screen warmth did not reach LED output.");warmFrames.Commit(warm);
+   var solid=warmFrames.Read(1,100,0,0x41251C,100);Assert(solid.All(c=>c==sample),"Screen warmth changed static colour.");
+  }
   var fake=new FakeCapture();int created=0;
   using(var frames=new LightingFrames(()=>{created++;return fake;},new Rectangle(0,0,3440,1440),2,1,true)){
    var orange=frames.Read(1,100,50,0xFF6400);frames.Commit(orange);

diff --git a/AppEnvironment.cs b/AppEnvironment.cs
@@ -9,11 +9,11 @@ using Microsoft.Win32;
 [assembly: AssemblyProduct("AmbientLite")]
 [assembly: AssemblyCompany("AlbinoPriest")]
 [assembly: AssemblyCopyright("Copyright © 2026 AlbinoPriest")]
-[assembly: AssemblyVersion("0.4.0.0")]
-[assembly: AssemblyFileVersion("0.4.0.0")]
+[assembly: AssemblyVersion("0.4.1.0")]
+[assembly: AssemblyFileVersion("0.4.1.0")]
 
 static class AppEnvironment {
- public const string Version="0.4.0";
+ public const string Version="0.4.1";
  public static readonly string Executable=Assembly.GetExecutingAssembly().Location;
  public static readonly bool Installed=File.Exists(Path.Combine(AppDomain.CurrentDomain.BaseDirectory,"installed.marker"));
  public static readonly string Settings=Path.Combine(Installed?Path.Combine(Environment.GetFolderPath(Environment.SpecialFolder.LocalApplicationData),"AmbientLite"):AppDomain.CurrentDomain.BaseDirectory,"settings.txt");

diff --git a/AmbientControlProtocol.cs b/AmbientControlProtocol.cs
@@ -13,6 +13,7 @@ namespace AmbientLite.Control {
  [DataContract] public sealed class Options {
   [DataMember] public string Mode,Colour,Monitor;
   [DataMember] public int Brightness,Smoothing,Rate,Top,Side;
+  [DataMember(EmitDefaultValue=false)] public int? Warmth;
   [DataMember] public bool Reverse,Compatibility,OffOnExit,StartInTray,StartLighting,StartWithWindows;
  }
  [DataContract] public sealed class Display {

diff --git a/docs/LOCAL-CONTROL.md b/docs/LOCAL-CONTROL.md
@@ -29,6 +29,8 @@ Settings: `Mode` (`screen` or `static`), six-digit `Colour`, exact display `Moni
 
 ## Companion mode and ownership
 
+AmbientLite 0.4.1 adds optional nullable `Warmth` (0–100) to settings, without changing protocol 1. Status returns a number when supported. Omission or null on apply preserves the engine's saved warmth, so older front ends cannot reset it accidentally; explicit 0 resets it to neutral. New clients hide or disable warmth when the engine omits it. The canonical schema remains mirrored in EmberRGB. Warmth affects screen sync only, before temporal smoothing, and is appended to the existing settings file with neutral as the migration default.
+
 `--companion` hides the main window and suppresses AmbientLite's tray icon. It does not itself start lighting. `--companion --startup` uses the existing saved startup-lighting choice, without showing another window or tray icon. `installed.marker` beside the executable selects `%LOCALAPPDATA%\AmbientLite\settings.txt`, as in installed standalone editions; otherwise portable settings remain beside the executable.
 
 The existing single-instance mutex applies to companion and standalone launches, so only one AmbientLite engine runs. If a compatible instance already exists, front ends attach to it. A front end should close only the process it launched, checking the returned process ID, and leave separately launched standalone instances running. Closing AmbientLite's window still leaves the engine running; the existing session/exit handlers and optional blackout apply unchanged.
@@ -36,6 +38,8 @@ The existing single-instance mutex applies to companion and standalone launches,
 The bridge reuses AmbientLite's existing worker and LightingFrames object. Static mode parks capture; changing back to screen mode reuses that capture session. It does not implement screen-reactive output for third-party RGB controllers. That future feature should publish bounded colour updates from this worker, rather than start another capture pipeline.
 
 ## Verification
+
+For local troubleshooting, launch with `--colour-log <absolute-path>` or set `AMBIENTLITE_COLOUR_LOG` only in the launcher's environment. The worker records per-LED sampled RGB, outgoing packet RGB, transmission results and readback counters at most once per second, with a 1 MiB per-process budget. This is disabled normally, adds no capture session, and never sends the log over the network. A successful write reports USB transport completion, not an acknowledgement of physical LED colour. Delete the local log when finished.
 
 ControlTests checks settings bounds, framed roundtrips, invalid/truncated lengths, same-user pipe exchange, unknown-version rejection and recovery after a disconnected client. Existing session, shutdown and 100 capture-mode round-trip tests pass. Hardware integration testing covers status, applying static settings through EmberRGB, pause/resume and restoration to the original screen configuration. Initial automated visual confirmation was inconclusive; the user subsequently confirmed a manual change worked. Software state is not independent proof of visible LED output.
 
